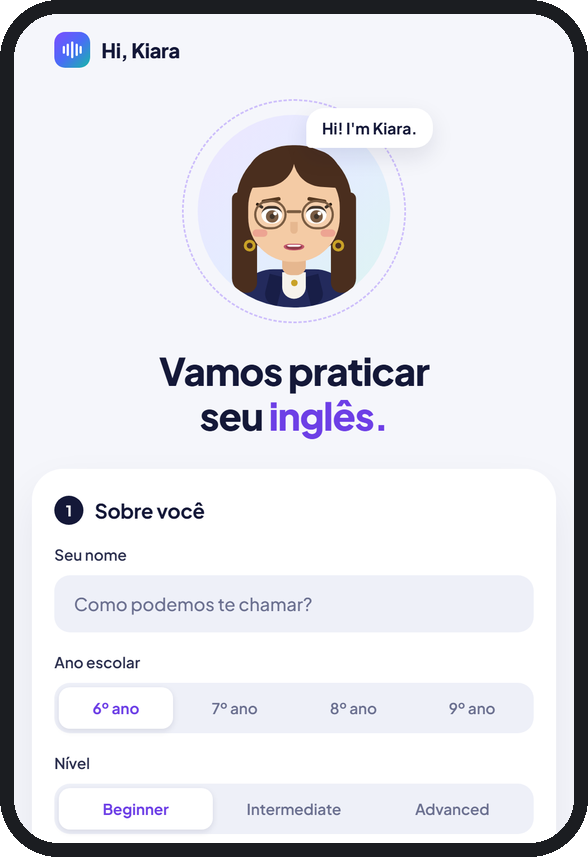
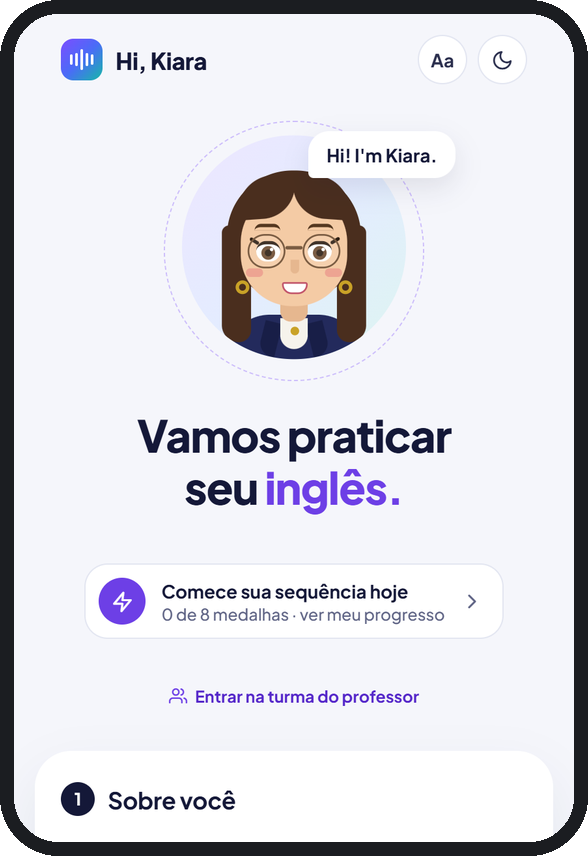
Atualiza Hi, Kiara! e EST-LAB com as novidades e telas reais

diff --git a/index.html b/index.html
@@ -194,6 +194,17 @@
     .case-est .case-body { padding-top: 0; }
   }
 
+  .cta-row { display: flex; flex-wrap: wrap; gap: 12px; }
+  .cta.ghost { background: transparent; color: var(--fg); box-shadow: inset 0 0 0 1px var(--line); }
+  .ul { border-bottom: 1px solid currentColor; }
+  .lab { display: grid; grid-template-columns: 1fr 1fr; gap: 24px; padding-bottom: clamp(24px, 6vh, 64px); }
+  .shot { display: block; }
+  .shot img { width: 100%; height: auto; border-radius: 14px; border: 1px solid var(--line); transition: transform .7s var(--ease); }
+  .shot:hover img { transform: translateY(-6px); }
+  .shot-cap { display: block; margin-top: 14px; color: var(--muted); font-size: 16px; }
+  .shot-cap b { display: block; color: var(--fg); font-size: 20px; font-weight: 600; letter-spacing: -.01em; }
+  @media (max-width: 760px) { .lab { grid-template-columns: 1fr; } }
+
   /* kiara */
   .phone-stage { position: relative; width: min(100%, 420px); padding: 4% 0; }
   .phone-stage img { width: 74%; height: auto; margin: 0 auto; filter: drop-shadow(0 30px 60px rgba(40, 20, 120, .25)); animation: float 6s ease-in-out infinite; }
@@ -221,7 +232,7 @@
   }
   @media (max-width: 520px) { .bubble { font-size: 14px; padding: 10px 14px; } }
 
-  /* est-robot: diagrama por etapas */
+  /* est-lab: diagrama por etapas */
   .est { width: min(100%, 520px); height: auto; }
   .est text { font-family: "Inter Tight", sans-serif; font-size: 13px; fill: var(--fg); }
   .est .m { fill: var(--muted); font-size: 11px; font-family: "JetBrains Mono", monospace; letter-spacing: .02em; }
@@ -404,44 +415,54 @@
     <article class="case case-kiara" id="kiara">
       <div class="case-media">
         <div class="phone-stage">
-          <img src="assets/hi-kiara-app.png" alt="Tela inicial do Hi, Kiara! com a Kiara, assistente virtual de inglês" width="588" height="857">
+          <img src="assets/hi-kiara-app.png" alt="Tela inicial do Hi, Kiara! com a Kiara, assistente virtual de inglês" width="588" height="856">
           <div class="bubble me b1"><small>Aluno</small>How do I say “eu fui” in English?</div>
           <div class="bubble b2"><small>Kiara</small>Good question! How do you say “eu vou”?</div>
           <div class="bubble me b3"><small>Aluno</small>I go! So… I went?</div>
         </div>
       </div>
       <div class="case-body">
-        <div class="case-index label"><span>01 / 05</span><span>Mobile · IA</span></div>
-        <h3 class="case-title"><a href="https://englishtutor-weld.vercel.app" target="_blank" rel="noopener" data-cursor="Abrir">Hi, Kiara!</a></h3>
+        <div class="case-index label"><span>01 / 05</span><span>Web e mobile · IA</span></div>
+        <h3 class="case-title"><a href="https://hi-kiara.vercel.app" target="_blank" rel="noopener" data-cursor="Abrir">Hi, Kiara!</a></h3>
         <p class="case-tag serif">Uma assistente que ensina inglês fazendo perguntas, não dando respostas.</p>
-        <p>Assistente virtual de prática de inglês para alunos do 6º ao 9º ano. A Kiara, uma personagem animada, conversa por texto e voz: reconhece a fala do aluno e responde falando, adaptando a conversa ao ano escolar, ao nível e aos tópicos de gramática escolhidos.</p>
-        <p>O método é socrático: em vez de entregar a resposta, ela devolve uma pergunta que leva o aluno até lá. Como o público é menor de idade, a IA tem limites de segurança explícitos.</p>
+        <p>Assistente virtual para alunos do 6º ao 9º ano praticarem inglês conversando por voz ou por texto, no ritmo de cada um. O aluno escolhe o ano, os temas do currículo e um modo: explicação, questões críticas ou role-play, em que a Kiara vira um personagem e o aluno ganha uma missão.</p>
+        <p>O método é socrático: ela pergunta antes de responder, para o aluno pensar e tentar. No fim, um resumo traz as correções, as palavras novas e o treino de pronúncia, pronto para imprimir.</p>
+        <p>Virou uma ferramenta de sala de aula, com painel do professor por turma, progresso e medalhas, opções de acessibilidade e regras de segurança para menores de idade. As conversas não ficam guardadas no servidor.</p>
         <dl class="meta">
-          <div><dt class="label">Público</dt><dd>Alunos do 6º ao 9º ano</dd></div>
+          <div><dt class="label">Contexto</dt><dd>Projeto de escola, apresentado na Mostra Pedagógica de Maricá</dd></div>
           <div><dt class="label">Status</dt><dd>No ar</dd></div>
-          <div><dt class="label">Stack</dt><dd>React Native, Expo, TypeScript</dd></div>
+          <div><dt class="label">Stack</dt><dd>React Native, Expo, TypeScript, Vercel, Postgres</dd></div>
           <div><dt class="label">IA</dt><dd>LLM, reconhecimento e síntese de voz</dd></div>
         </dl>
-        <a class="cta magnetic" href="https://englishtutor-weld.vercel.app" target="_blank" rel="noopener" data-cursor="Abrir">Abrir o app <span class="arr">↗</span></a>
+        <a class="cta magnetic" href="https://hi-kiara.vercel.app" target="_blank" rel="noopener" data-cursor="Abrir">Abrir o app <span class="arr">↗</span></a>
       </div>
     </article>
 
     <article class="case case-est" id="est">
       <div class="case-body">
-        <div class="case-index label"><span>02 / 05</span><span>Engenharia reversa</span></div>
-        <h3 class="case-title"><a href="https://github.com/AndreyViolante/Est-Robot" target="_blank" rel="noopener" data-cursor="Código">Est-Robot</a></h3>
-        <p class="case-tag serif">Um compilador Python para um robô que não tinha documentação nenhuma.</p>
-        <p>O robô educacional Dr. Luck EST só podia ser programado por uma IDE fechada. Fui descobrindo como ele funciona a partir dos bytes que passavam pelo cabo USB.</p>
+        <div class="case-index label"><span>02 / 05</span><span>Engenharia reversa · Educação</span></div>
+        <h3 class="case-title"><a href="https://andreyviolante.github.io/est-robot/" target="_blank" rel="noopener" data-cursor="Abrir">EST-LAB</a></h3>
+        <p class="case-tag serif">Python em português para um robô que não tinha documentação nenhuma.</p>
+        <p>O robô educacional Dr. Luck EST só podia ser programado por uma IDE fechada. Comecei pelos bytes que passavam pelo cabo USB e cheguei a uma ferramenta gratuita e de código aberto para aulas de robótica.</p>
         <ol class="steps">
           <li data-step="1"><h4>Captura</h4><p>Gravei o tráfego USB entre a IDE oficial e o robô, programa por programa, para comparar o que mudava em cada envio.</p></li>
           <li data-step="2"><h4>Protocolo</h4><p>Mapeei o protocolo HID: relatórios de 1025 bytes e um envio em 7 pacotes, de SELECT até DOWNLOAD.</p></li>
-          <li data-step="3"><h4>Compilador</h4><p>Escrevi um compilador que traduz funções Python, como repetir() e os comandos de motor e sensor, para o binário da máquina virtual do robô.</p></li>
-          <li data-step="4"><h4>Upload</h4><p>O programa vai direto para o robô pelo USB, sem passar pela IDE proprietária.</p></li>
+          <li data-step="3"><h4>Compilador</h4><p>Escrevi um compilador que transforma Python no binário da máquina virtual do robô. Ele é testado byte a byte contra a IDE oficial: 13 de 13 programas idênticos.</p></li>
+          <li data-step="4"><h4>Upload</h4><p>Com um atalho no VS Code, o programa vai direto para o robô pelo USB, sem a IDE proprietária. Os comandos são em português, e os erros também.</p></li>
         </ol>
-        <a class="cta magnetic" href="https://github.com/AndreyViolante/Est-Robot" target="_blank" rel="noopener" data-cursor="Código">Ver o código <span class="arr">↗</span></a>
+        <dl class="meta">
+          <div><dt class="label">Versão</dt><dd>0.1.6, com licença MIT</dd></div>
+          <div><dt class="label">Para quem</dt><dd>Professores, alunos e equipes da OBR</dd></div>
+          <div><dt class="label">Material</dt><dd>Guia do professor com 8 aulas e guia da OBR</dd></div>
+          <div><dt class="label">Registro</dt><dd><a class="ul" href="https://doi.org/10.5281/zenodo.23692767" target="_blank" rel="noopener" data-cursor-link>DOI no Zenodo</a></dd></div>
+        </dl>
+        <div class="cta-row">
+          <a class="cta magnetic" href="https://andreyviolante.github.io/est-robot/programar/" target="_blank" rel="noopener" data-cursor="Abrir">Programar no navegador <span class="arr">↗</span></a>
+          <a class="cta ghost magnetic" href="https://github.com/AndreyViolante/est-robot" target="_blank" rel="noopener" data-cursor="Código">Ver o código <span class="arr">↗</span></a>
+        </div>
       </div>
       <div class="case-media">
-        <svg class="est" viewBox="0 0 480 540" role="img" aria-label="Etapas do Est-Robot: captura USB, protocolo HID, compilador e upload para o robô">
+        <svg class="est" viewBox="0 0 480 540" role="img" aria-label="Etapas do EST-LAB: captura USB, protocolo HID, compilador e upload para o robô">
           <g class="n n1">
             <rect class="nb" x="20" y="16" width="440" height="104" rx="14"/>
             <text class="m" x="40" y="44">01 · CAPTURA USB</text>
@@ -489,6 +510,17 @@
         </svg>
       </div>
     </article>
+
+    <div class="lab">
+      <a class="shot reveal" href="https://andreyviolante.github.io/est-robot/programar/" target="_blank" rel="noopener" data-cursor="Abrir">
+        <img src="assets/est-blocos.webp" alt="Página de programar do EST-LAB com blocos à esquerda e o Python gerado à direita" width="1400" height="800" loading="lazy">
+        <span class="shot-cap"><b>Programar</b>Blocos e Python lado a lado, no navegador e sem instalar nada.</span>
+      </a>
+      <a class="shot reveal" href="https://andreyviolante.github.io/est-robot/simulador/" target="_blank" rel="noopener" data-cursor="Abrir">
+        <img src="assets/est-simulador.webp" alt="Simulador do EST-LAB com o robô seguindo uma linha quadrada" width="1400" height="800" loading="lazy">
+        <span class="shot-cap"><b>Simulador</b>Desafios e arena da OBR para testar o programa sem o robô.</span>
+      </a>
+    </div>
 
     <div class="index">
       <div class="sec-head" style="margin-bottom:0"><span class="label">Outros projetos</span><span class="label">03 — 05</span></div>
@@ -703,7 +735,7 @@
     if (e.isIntersecting) root.dataset.section = "kiara"; else if (root.dataset.section === "kiara") delete root.dataset.section;
   }), { rootMargin: "-45% 0px -45% 0px" }).observe(kiara);
 
-  /* etapas do Est-Robot */
+  /* etapas do EST-LAB */
   const est = document.querySelector(".est"), steps = document.querySelectorAll(".steps li");
   if (est) est.dataset.step = "1";
   const stepIO = new IntersectionObserver(es => es.forEach(e => {
